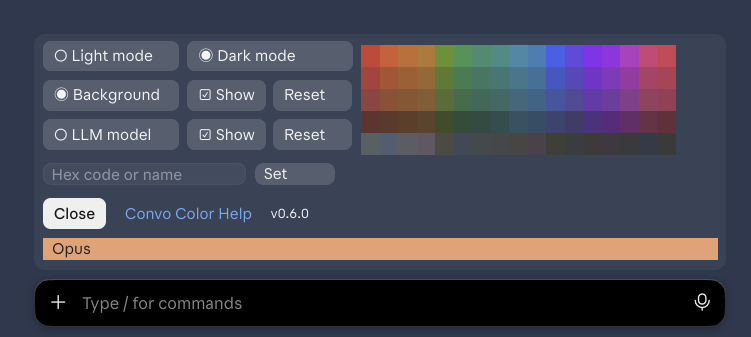
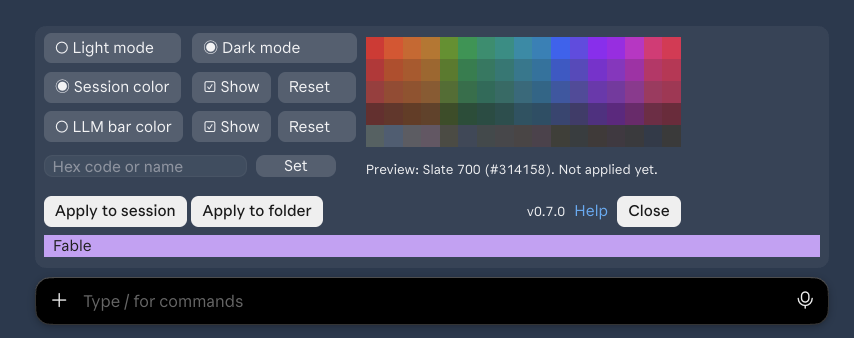
README: pictures of the 0.7.0 picker, with their alt text and the caption of the dark one

diff --git a/README.md b/README.md
@@ -4,7 +4,7 @@ A small add-on (a mod) for Claude, the AI assistant from Anthropic. It works in 
 
 convo-color is an independent project. It is not made, endorsed or supported by Anthropic.
 
-![The colour picker in a light window: the buttons Light mode and Dark mode, the lines Background and LLM model each with Show and Reset, a field marked Hex code or name with Set, Close, the link Convo Color Help and the version, six lines of light colour swatches, and under the picker a violet row that says Fable](docs/picker-light.png)
+![The colour picker in a light window: the buttons Light mode and Dark mode, the lines Session color and LLM bar color each with Show and Reset, a field marked Hex code or name with Set, the buttons Apply to session and Apply to folder, six lines of light colour swatches with the line This session follows the folder colour under them, then the version, the link Help and the button Close, and under the picker a violet row that says Fable](docs/picker-light.png)
 
 *The picker that `/convo-color` opens above the prompt box, here in a light window. The row under it is the model row, here for Fable.*
 
@@ -31,9 +31,9 @@ Two other things change with the conversation colour:
 
 **Windows users:** the instructions for Windows are at the bottom of this page, in [On Windows](#on-windows). The add-on is reported to work on Windows.
 
-![The same colour picker in a dark window, on its Dark mode set of five lines of deep colour swatches, with Background chosen and an orange row under it that says Opus](docs/picker-dark.png)
+![The same colour picker in a dark window, on its Dark mode set of five lines of deep colour swatches, with Session color chosen, a line under the swatches that says Preview: Slate 700 (#314158). Not applied yet, and under the picker a violet row that says Fable](docs/picker-dark.png)
 
-*The same picker in a dark window, on the Dark mode set, with the model row for Opus under it.*
+*The same picker in a dark window, on the Dark mode set, with a colour previewed and not applied yet. The row under it is the model row for Fable.*
 
 > [!IMPORTANT]
 > **Requirements: check all of this before you paste the install line.** If one point is not true, the install or the add-on fails.
